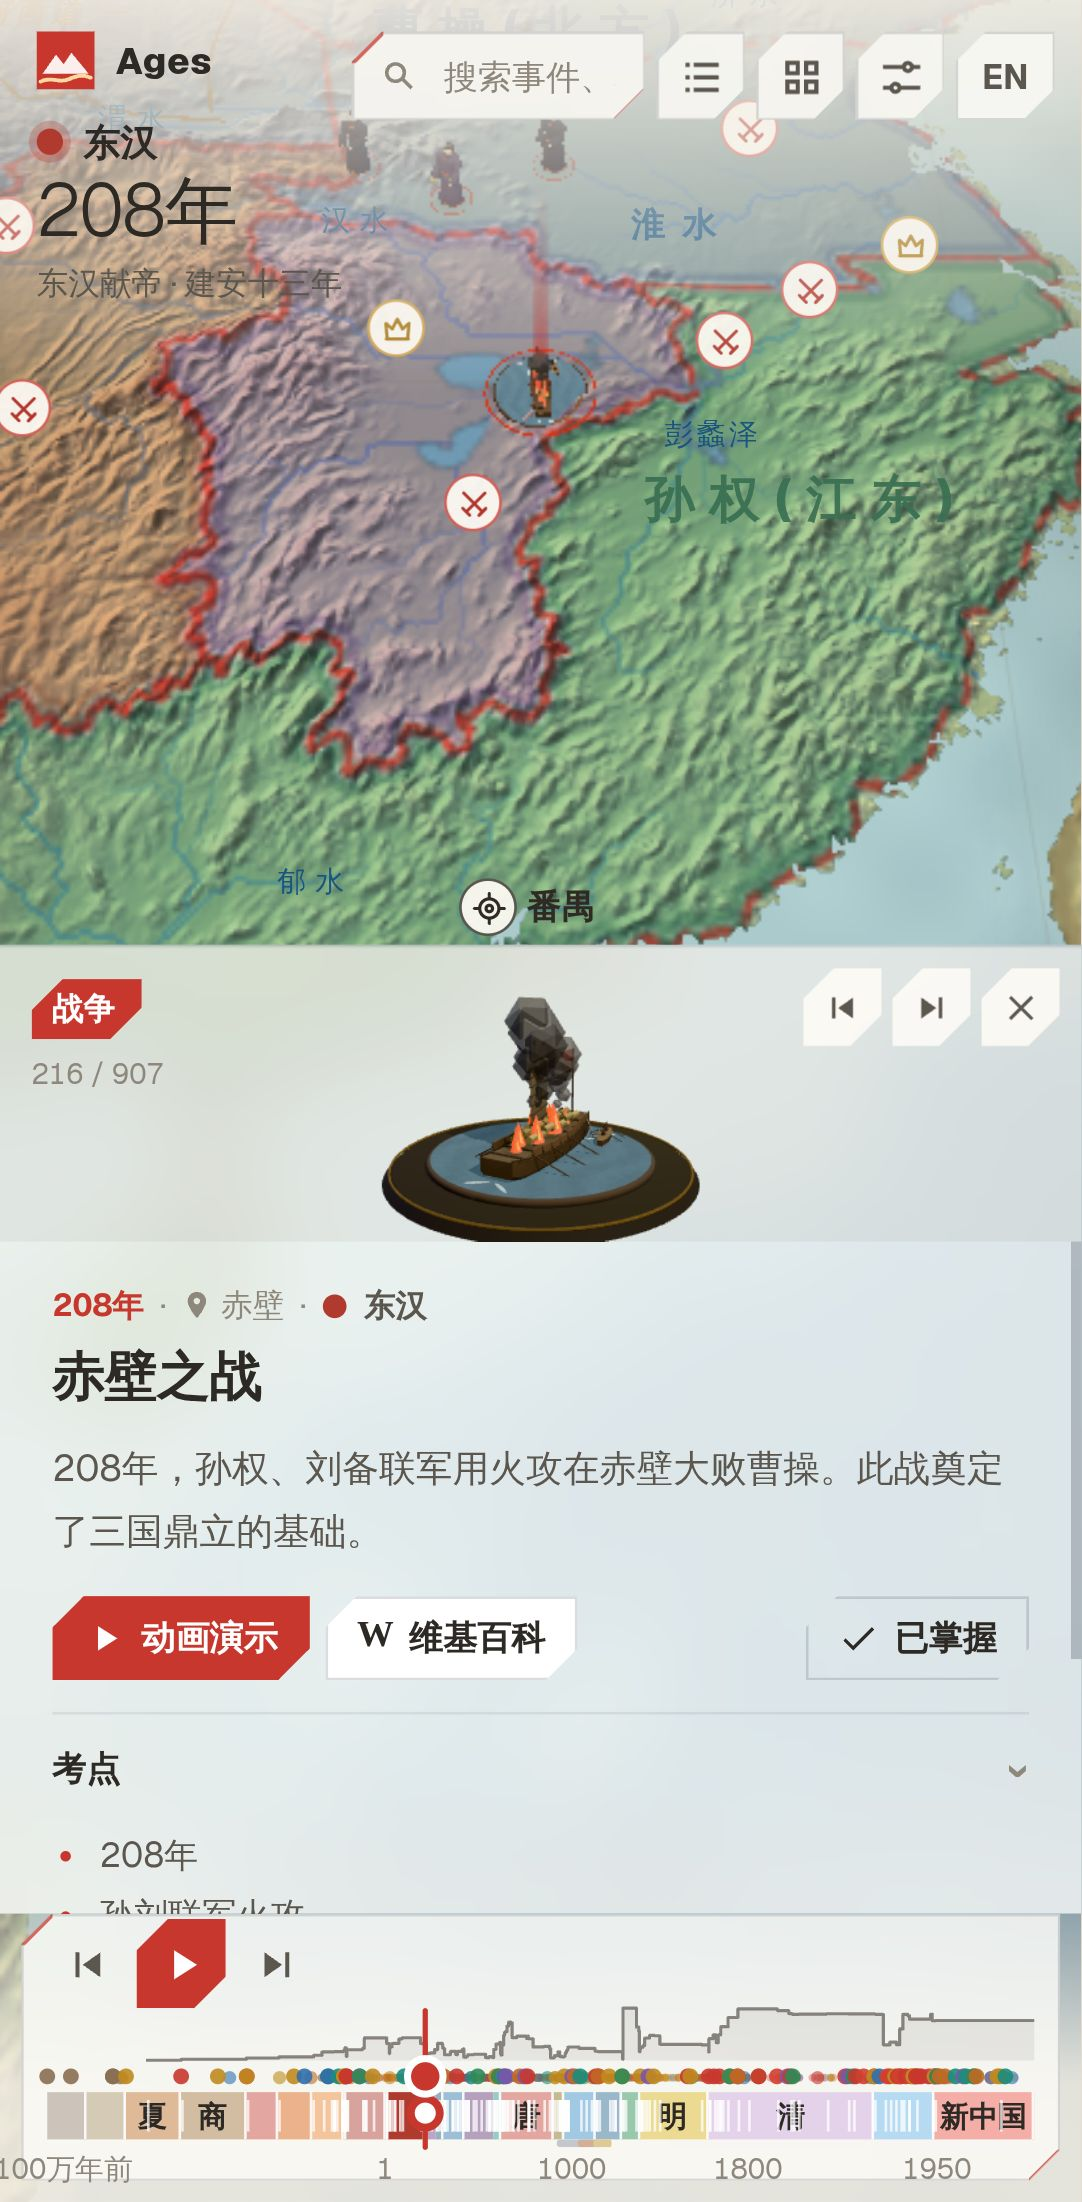
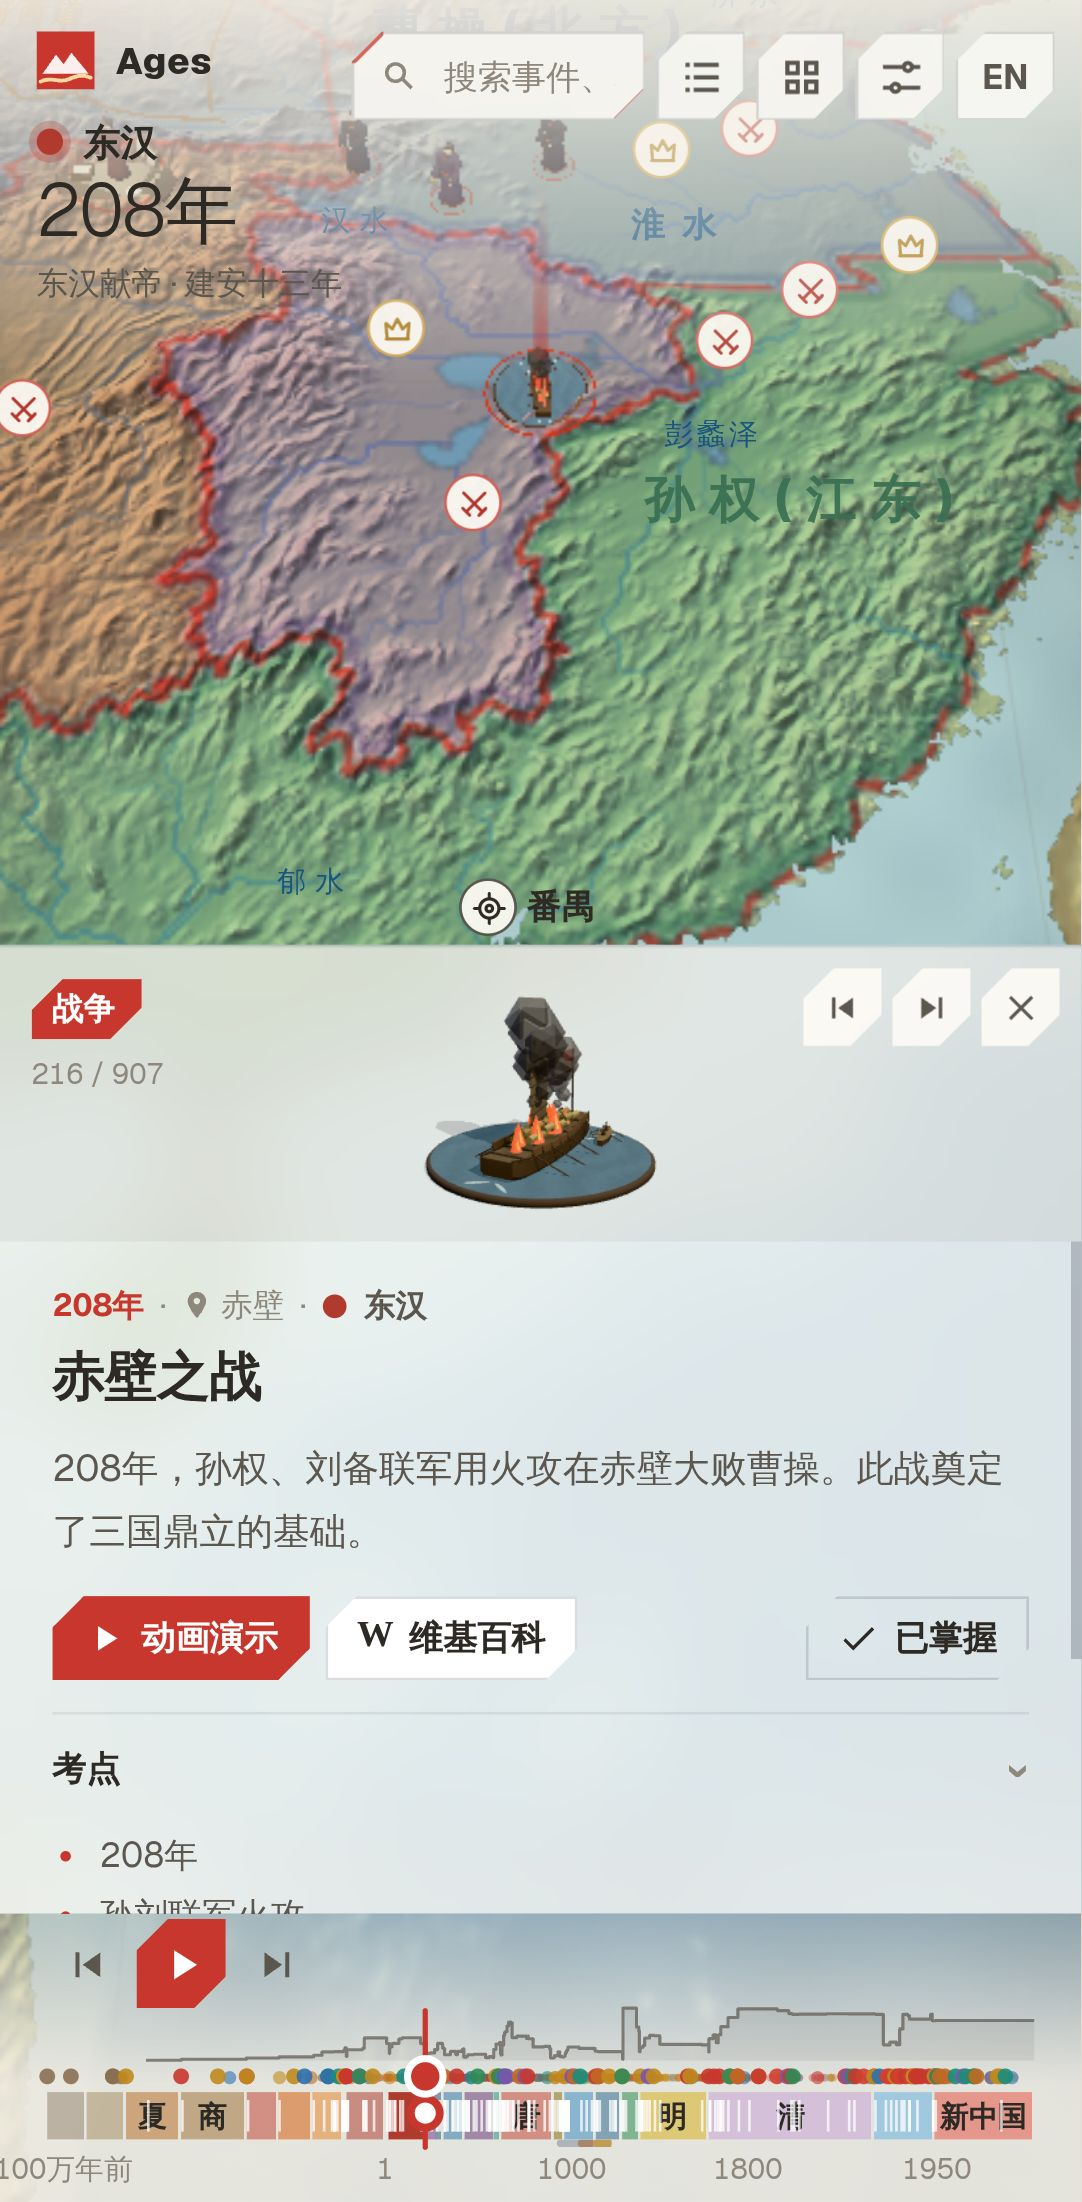
Card preview glides in from afar with a slight turn; timeline sits on the map without a box

diff --git a/src/client/ui/preview.ts b/src/client/ui/preview.ts
@@ -7,6 +7,11 @@ import { instance } from '../models/library.ts';
  * The turntable at the top of the info panel: the subject's 3D model (landmark, figure, army …) on its own base,
  * slowly turning; drag to spin it. One small renderer, shared by every card and only running while visible.
  */
+/** Idle turntable speed (rad/s). */
+const SPIN = 0.3;
+/** Intro: the camera glides in from INTRO_FAR × the resting distance and INTRO_RISE rad higher while the model turns INTRO_YAW into place. */
+const INTRO_MS = 1600, INTRO_FAR = 2, INTRO_RISE = 0.3, INTRO_YAW = 0.8;
+
 export class Preview {
   readonly canvas: HTMLCanvasElement;
   private renderer: THREE.WebGLRenderer | null = null;
@@ -16,8 +21,11 @@ export class Preview {
   private model: THREE.Object3D | null = null;
   private key = '';
   private req = 0;
-  private spin = 0.6;
+  private spin = SPIN;
   private angle = -0.5;
+  /** Final framing (orbit distance, elevation, look-at height) and the intro start time (−1: on the next frame, Infinity: done). */
+  private pose = { d: 4, e: 0.3, y: 0.5 };
+  private introAt = Infinity;
   private last = 0;
   private dirty = true;
   active = false;
@@ -86,12 +94,21 @@ export class Preview {
     g.position.set(-(box.min.x + box.max.x) / 2 * k, -box.min.y * k, -(box.min.z + box.max.z) / 2 * k);
     this.model = g;
     this.turn.add(g);
-    const h = size.y * k;
-    this.cam.position.set(0, 0.9 + h * 0.55, 3.9 + h * 0.35);
-    this.cam.lookAt(0, h * 0.42, 0);
+    const h = size.y * k, ly = h * 0.42, cy = 0.9 + h * 0.55 - ly, cz = 3.9 + h * 0.35;
+    this.pose = { d: Math.hypot(cy, cz), e: Math.atan2(cy, cz), y: ly };
     this.angle = -0.5;
+    this.introAt = this.still || matchMedia('(prefers-reduced-motion: reduce)').matches ? Infinity : -1;
+    this.place(1);
     this.dirty = true;
     this.canvas.parentElement?.classList.remove('pv-loading');
+  }
+
+  /** Camera on its intro path: k = 0 far and a little higher, k = 1 the resting framing. */
+  private place(k: number): void {
+    const { d, e, y } = this.pose;
+    const dist = d * (INTRO_FAR + (1 - INTRO_FAR) * k), el = e + INTRO_RISE * (1 - k);
+    this.cam.position.set(0, y + dist * Math.sin(el), dist * Math.cos(el));
+    this.cam.lookAt(0, y, 0);
   }
 
   private bindDrag(): void {
@@ -103,18 +120,27 @@ export class Preview {
       x0 = e.clientX;
       this.dirty = true;
     });
-    const up = () => { x0 = -1; this.spin = 0.6; };
+    const up = () => { x0 = -1; this.spin = SPIN; };
     this.canvas.addEventListener('pointerup', up);
     this.canvas.addEventListener('pointercancel', up);
   }
 
   private frame(now: number): void {
     const dt = Math.min(0.1, (now - (this.last || now)) / 1000);
-    // cap at ~24 fps; idle (hidden card, background tab, low-end) costs nothing
-    if (!this.active || document.hidden || (!this.dirty && (this.still || now - this.last < 40))) { if (!this.active) this.last = now; return; }
+    if (this.model && this.active && this.introAt < 0) this.introAt = now;
+    const intro = this.introAt < Infinity;
+    // cap at ~24 fps outside the intro; idle (hidden card, background tab, low-end) costs nothing
+    if (!this.active || document.hidden || (!this.dirty && !intro && (this.still || now - this.last < 40))) { if (!this.active) this.last = now; return; }
     this.last = now;
     if (!this.still) this.angle += dt * this.spin;
-    this.turn.rotation.y = this.angle;
+    let yaw = 0;
+    if (intro) {
+      const t = Math.min(1, (now - this.introAt) / INTRO_MS), k = 1 - (1 - t) ** 3;
+      this.place(k);
+      yaw = -INTRO_YAW * (1 - k);
+      if (t >= 1) this.introAt = Infinity;
+    }
+    this.turn.rotation.y = this.angle + yaw;
     const r = this.renderer!;
     const w = this.canvas.clientWidth, h = this.canvas.clientHeight;
     if (!w || !h) return;

diff --git a/src/client/styles.css b/src/client/styles.css
@@ -76,9 +76,6 @@
 :root[data-map=ink] .modal-box { background: var(--pp-cuts), rgba(20, 21, 24, 0.96); }
 :root[data-map=ink] .card-nav .ib { background: var(--panel); }
 :root[data-map=ink] .card-nav .ib:hover { background: #26282c; }
-:root[data-map=ink] .tl-band { background: color-mix(in srgb, var(--c) 42%, #1a1b1e); border-right-color: rgba(0, 0, 0, 0.5); }
-:root[data-map=ink] .tl-band:hover { background: color-mix(in srgb, var(--c) 62%, #1a1b1e); }
-:root[data-map=ink] .tl-band.cur { background: var(--c); }
 :root[data-map=ink] .tl-band span { color: #e8e2d6; }
 :root[data-map=ink] .skel i { background: linear-gradient(90deg, #1e2023 0%, #2a2c30 50%, #1e2023 100%); background-size: 200% 100%; }
 :root[data-map=ink] .tl-phases i { background: rgba(0, 0, 0, 0.45); }
@@ -107,9 +104,9 @@ h2, h3 { font-weight: 700; }
 
 /* ================================================================ slabs
    The pocket-planet slab: top-left and bottom-right corners are cut at 45°, and a vermilion hairline traces each cut.
-   Only floating things are slabs — the timeline bar, popovers, search results and dialogs; the drawer is a solid
-   edge-attached surface and overlay text has no box at all. Slabs whose children spill outside them (search results,
-   the timeline's year flag) draw the slab on ::before so nothing inside is clipped. */
+   Only floating things are slabs — popovers, search results and dialogs; the drawer is a solid edge-attached
+   surface, and overlay text and the timeline have no box at all (they sit on the foot scrim). Slabs whose children
+   spill outside them (search results) draw the slab on ::before so nothing inside is clipped. */
 .menu, .modal-box, .hits {
   --cut: 12px;
   position: relative;
@@ -121,12 +118,6 @@ h2, h3 { font-weight: 700; }
   color: var(--ink);
 }
 .modal-box { background: var(--pp-cuts), rgba(253, 251, 247, 0.96); }
-.tl { --cut: 9px; isolation: isolate; }
-.tl::before {
-  content: ''; position: absolute; inset: 0; z-index: -1; pointer-events: none;
-  background: var(--pp-cuts), var(--panel); border: 1px solid var(--rule-2); clip-path: var(--pp-clip);
-  -webkit-backdrop-filter: var(--glass); backdrop-filter: var(--glass);
-}
 
 /* ================================================================ labels on the map
    One type scale for every map label (see docs/design/typography.md):
@@ -801,13 +792,13 @@ i.seen { color: var(--k-economy); font-style: normal; margin-left: auto; }
 .tl-track:focus-visible { box-shadow: inset 0 0 0 2px rgba(200, 55, 45, 0.4); border-radius: 0; }
 .tl-bands { position: absolute; left: 0; right: 0; top: 32px; height: 21px; }
 .tl-band {
-  position: absolute; top: 0; height: 18px; border: 0; padding: 0; background: color-mix(in srgb, var(--c) 45%, #fff);
-  border-right: 1px solid rgba(255, 255, 255, 0.9); overflow: hidden; display: grid; place-items: center; transition: background .15s;
+  position: absolute; top: 0; height: 18px; border: 0; padding: 0; background: color-mix(in srgb, var(--c) 50%, transparent);
+  border-right: 1px solid transparent; background-clip: padding-box; overflow: hidden; display: grid; place-items: center; transition: background .15s;
 }
 .tl-band span { font-size: var(--t-2xs); font-weight: 600; color: var(--ink); white-space: nowrap; }
 .tl-band.lane1 { top: 18px; height: 3px; opacity: 0.8; border-radius: 2px; }
 .tl-band.lane1 span { display: none; }
-.tl-band:hover { background: color-mix(in srgb, var(--c) 62%, #fff); }
+.tl-band:hover { background: color-mix(in srgb, var(--c) 72%, transparent); }
 .tl-band.cur { background: var(--c); }
 .tl-band.cur span { color: #fff; }
 .tl-bands .tl-band:first-child { border-radius: 0; }

diff --git a/docs/design/map-design.md b/docs/design/map-design.md
@@ -216,7 +216,8 @@ and scrolls within, keeping the current entry in view. (3) Two folded sections, 
 while the year changes: 并存政权 (every polity with its area) and 随堂检测 (a dot marks an unanswered question).
 
 **Surfaces.** Every surface is a flat, translucent frosted plane (`--panel` + `--glass`) with a hairline edge: drawer,
-popovers, search results, tool buttons, tooltips, tags and the timeline bar. Nothing casts a drop shadow; only focus
+popovers, search results, tool buttons, tooltips and tags. The timeline has no surface at all: its controls, translucent
+dynasty bands and axis sit straight on the map's foot scrim, without a box or border. Nothing casts a drop shadow; only focus
 and selection rings and the inset accent bar of the current list row use `box-shadow`. Text is warm charcoal
 (`--ink` `#2d2a25`, `--ink-2`, `--ink-3`), never pure black. Sizes come from one scale — see
 [typography § Interface type](typography.md#interface-type).
